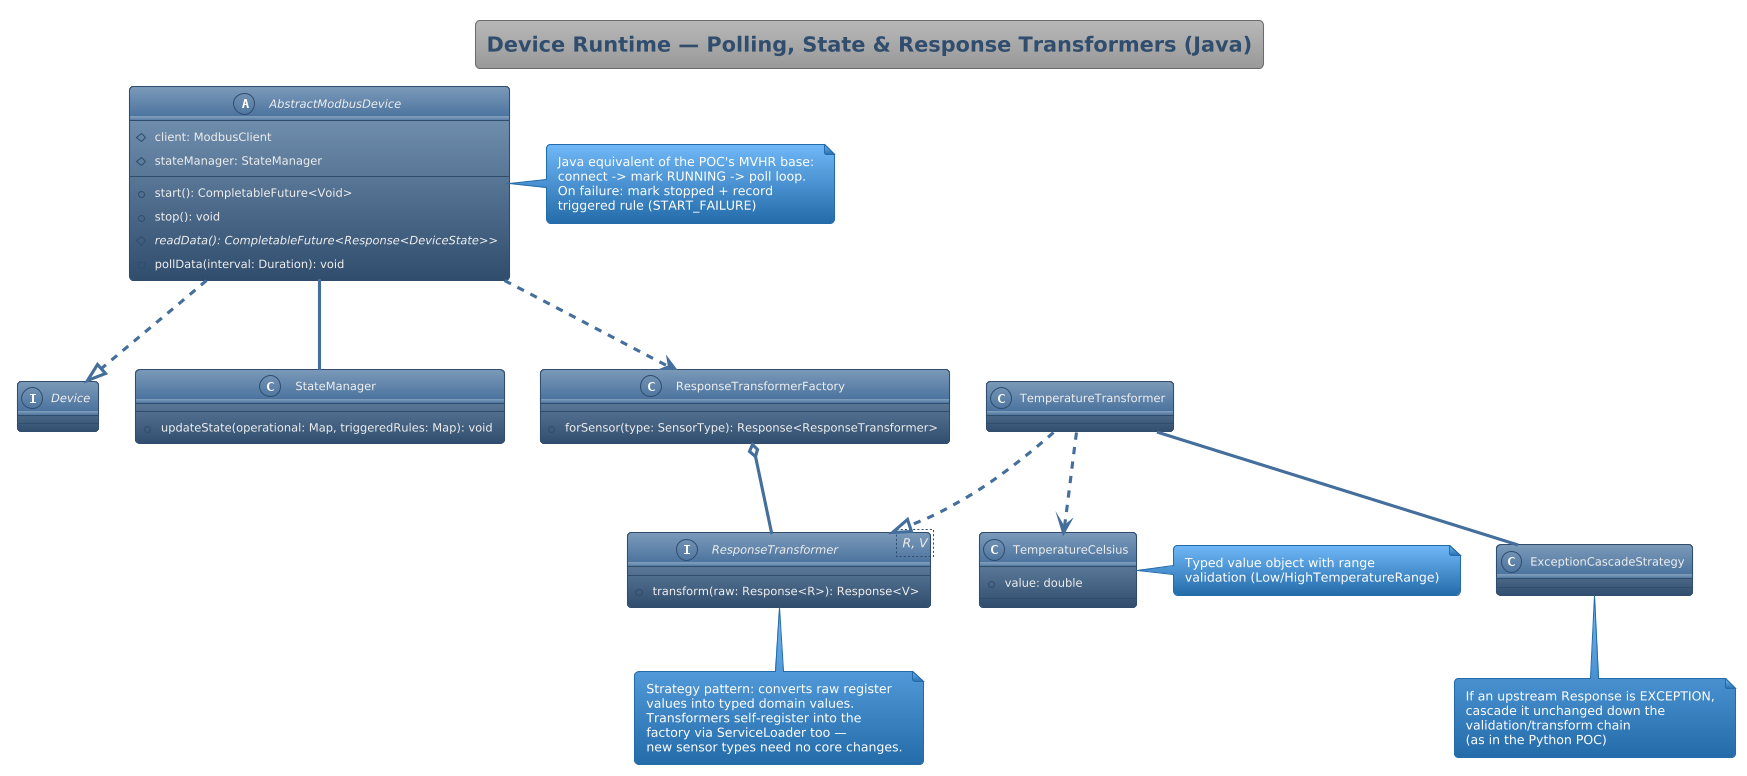
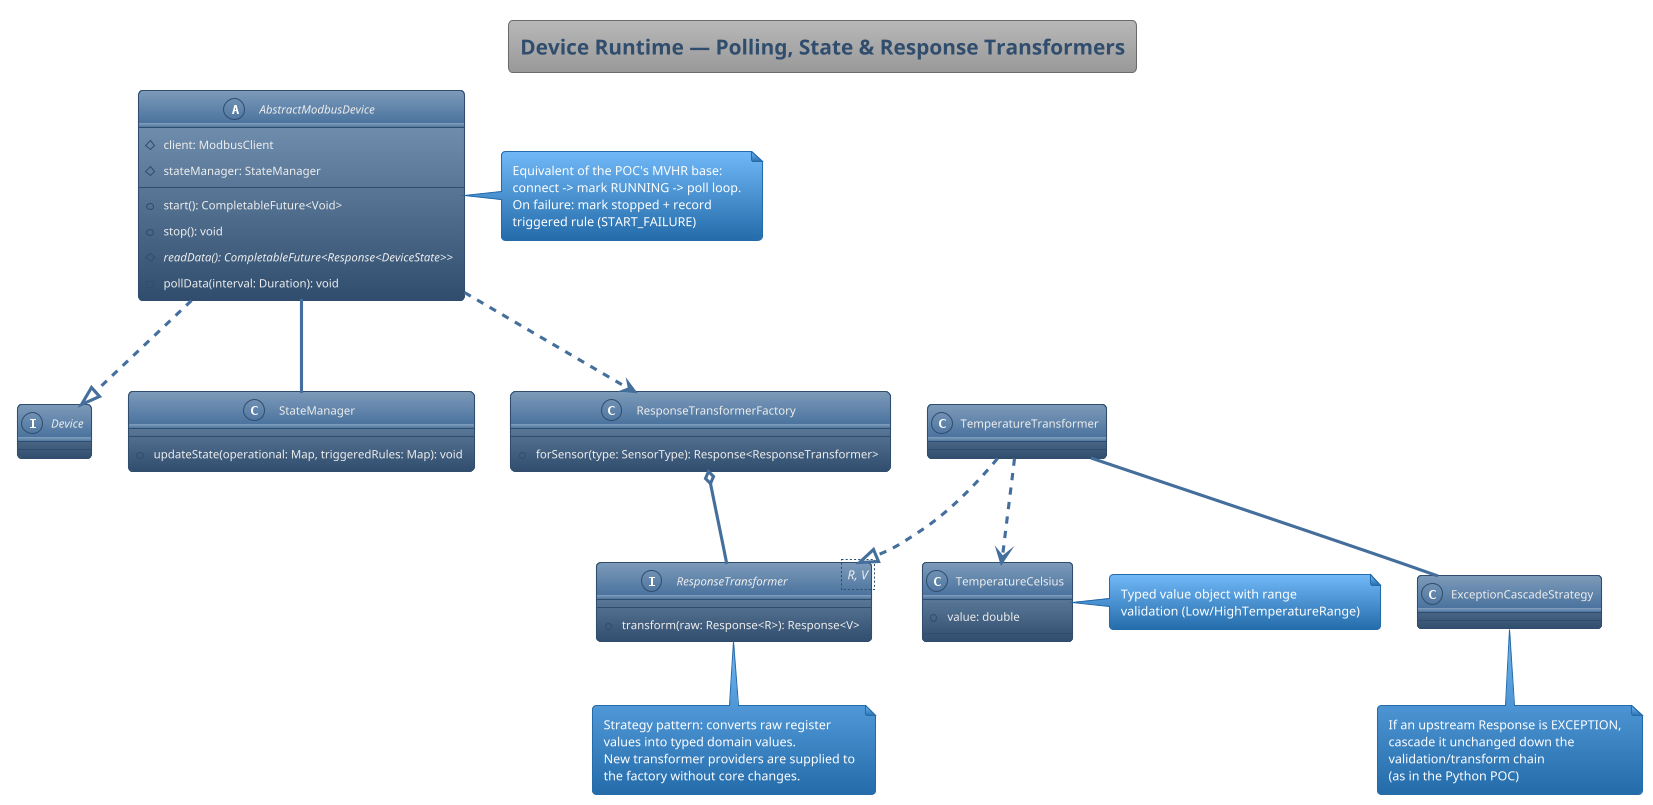
docs: make provider design implementation-neutral

diff --git a/designs/README.md b/designs/README.md
@@ -1,13 +1,13 @@
 # Designs
 
-PlantUML designs for the Java Modbus abstraction layer with a **plugin architecture**: new devices self-register and never require changes to existing code (Open/Closed Principle).
+PlantUML designs for a Modbus abstraction layer with a **provider architecture**: new devices and transport adapters are supplied independently and never require changes to existing core code (Open/Closed Principle).
 
 | Diagram | Purpose |
 |---|---|
-| [`01 Modbus Abstraction.puml`](01%20Modbus%20Abstraction.puml) ([PNG](01%20Modbus%20Abstraction.png)) | `ModbusClient` interface, TCP/RTU factories, connection-manager decorator, library adapters |
-| [`02 Device Plugin Architecture.puml`](02%20Device%20Plugin%20Architecture.puml) ([PNG](02%20Device%20Plugin%20Architecture.png)) | `DevicePlugin` SPI, `DeviceFactory` with ServiceLoader discovery, example plugins as separate jars |
+| [`01 Modbus Abstraction.puml`](01%20Modbus%20Abstraction.puml) ([PNG](01%20Modbus%20Abstraction.png)) | `ModbusClient` port, TCP/RTU providers, connection-manager decorator, library adapters |
+| [`02 Device Plugin Architecture.puml`](02%20Device%20Plugin%20Architecture.puml) ([PNG](02%20Device%20Plugin%20Architecture.png)) | Device provider contract, `DeviceFactory`, provider catalog, example extensions |
 | [`03 Device Runtime and Transformers.puml`](03%20Device%20Runtime%20and%20Transformers.puml) ([PNG](03%20Device%20Runtime%20and%20Transformers.png)) | Polling base device, state management, response transformer strategies |
-| [`04 Plugin Discovery Sequence.puml`](04%20Plugin%20Discovery%20Sequence.puml) ([PNG](04%20Plugin%20Discovery%20Sequence.png)) | Startup discovery and device creation flow |
+| [`04 Plugin Discovery Sequence.puml`](04%20Plugin%20Discovery%20Sequence.puml) ([PNG](04%20Plugin%20Discovery%20Sequence.png)) | Provider registration and device creation flow |
 
 ## Diagrams
 
@@ -29,7 +29,8 @@ PlantUML designs for the Java Modbus abstraction layer with a **plugin architect
 
 ## Key decisions
 
-- **Java `ServiceLoader`** is the self-registration mechanism (`META-INF/services`). Each device plugin is its own module/jar; dropping it on the classpath registers it — the Java equivalent of the Python POC's `@DeviceFactory.register_device` decorator, but with zero central code changes.
+- **Provider registration** is an architectural boundary. The runtime receives device, transport, and transformer providers from a provider catalog; the catalog's discovery mechanism is an implementation detail.
+- A Java deployment may implement the provider catalog with `ServiceLoader`, dependency injection, explicit configuration, or another mechanism. That choice does not belong in the domain design.
 - **`ModbusClient`** is the only Modbus API devices see. The underlying library (e.g. digitalpetri/modbus) sits behind an adapter, so it can be swapped without touching device code — same role `ModbusPYClient`/pymodbus played in the POC.
 - **`Response<T>` / `DeviceResponse`** carry status + details instead of throwing, mirroring the POC's `Response`/`DeviceStatus` pattern, including the exception-cascade strategy.
 - **Dependency validation**: `DevicePlugin.requiredDependencies()` is checked before creation, matching the POC `DeviceFactory` tests (not registered / missing dependency / valid).

diff --git a/TODO.md b/TODO.md
@@ -13,8 +13,8 @@ Tracking list for implementing the core Modbus abstraction layer. Task session: 
 
 ## 1. Foundations
 
-- [ ] `Response<T>` sealed Success/Failure with `status`, `details`, `value` + `map`/`flatMap`/`fold`
-- [ ] Exception-cascade behaviour: failure Responses pass through chains unchanged
+- [x] `Response<T>` sealed Success/Failure with `status`, `details`, `value` + `map`/`flatMap`/`fold`
+- [x] Exception-cascade behaviour: failure Responses pass through chains unchanged
 - [ ] Value objects with construction-time validation:
   - [ ] `IPAddress`, `Port`, `SerialPortName`, `BaudRate`, `UnitId`, `Timeout`, `Retries`
   - [ ] Modbus `StartAddress` (0–65535), `RegisterCount` (1–125), `CoilCount` (1–2000)
@@ -25,7 +25,7 @@ Tracking list for implementing the core Modbus abstraction layer. Task session: 
 
 - [ ] `ModbusClient` interface (connect, read/write coils & registers, isConnected)
 - [ ] `TransportType` enum (TCP, RTU)
-- [ ] `ModbusClientFactory` SPI + ServiceLoader discovery
+- [ ] `ModbusClientFactory` provider contract + provider-catalog discovery
 - [ ] `ModbusClientRegistry` returning `Response<ModbusClient>` (failure when transport not registered)
 - [ ] `ConnectionSettings` composed only of value objects
 - [ ] `ConnectionManager` decorator: retry/reconnect honouring `Retries`/`Timeout`
@@ -33,15 +33,15 @@ Tracking list for implementing the core Modbus abstraction layer. Task session: 
 ## 3. Device plugin architecture (diagram 02)
 
 - [ ] `Device` interface (open/read/close)
-- [ ] `DevicePlugin` SPI (`deviceType()`, `requiredDependencies()`, `create(config, deps)`)
-- [ ] `DeviceFactory`: ServiceLoader discovery, dependency validation, NOT_REGISTERED / missing-dependency failure Responses
+- [ ] `DevicePlugin` provider contract (`deviceType()`, `requiredDependencies()`, `create(config, deps)`)
+- [ ] `DeviceFactory`: provider-catalog discovery, dependency validation, NOT_REGISTERED / missing-dependency failure Responses
 - [ ] `Dependencies`, `ConfigFactory`, `ConfigLoader` (JSON device profiles)
 
 ## 4. Device runtime & transformers (diagram 03)
 
 - [ ] `AbstractModbusDevice` (connect → running → poll loop; failure marks stopped + START_FAILURE rule)
 - [ ] `StateManager`
-- [ ] `ResponseTransformer<R, V>` SPI + `ResponseTransformerFactory` (ServiceLoader)
+- [ ] `ResponseTransformer<R, V>` provider contract + `ResponseTransformerFactory`
 - [ ] `TemperatureTransformer` producing `TemperatureCelsius`
 
 ## 5. Wiring & delivery
